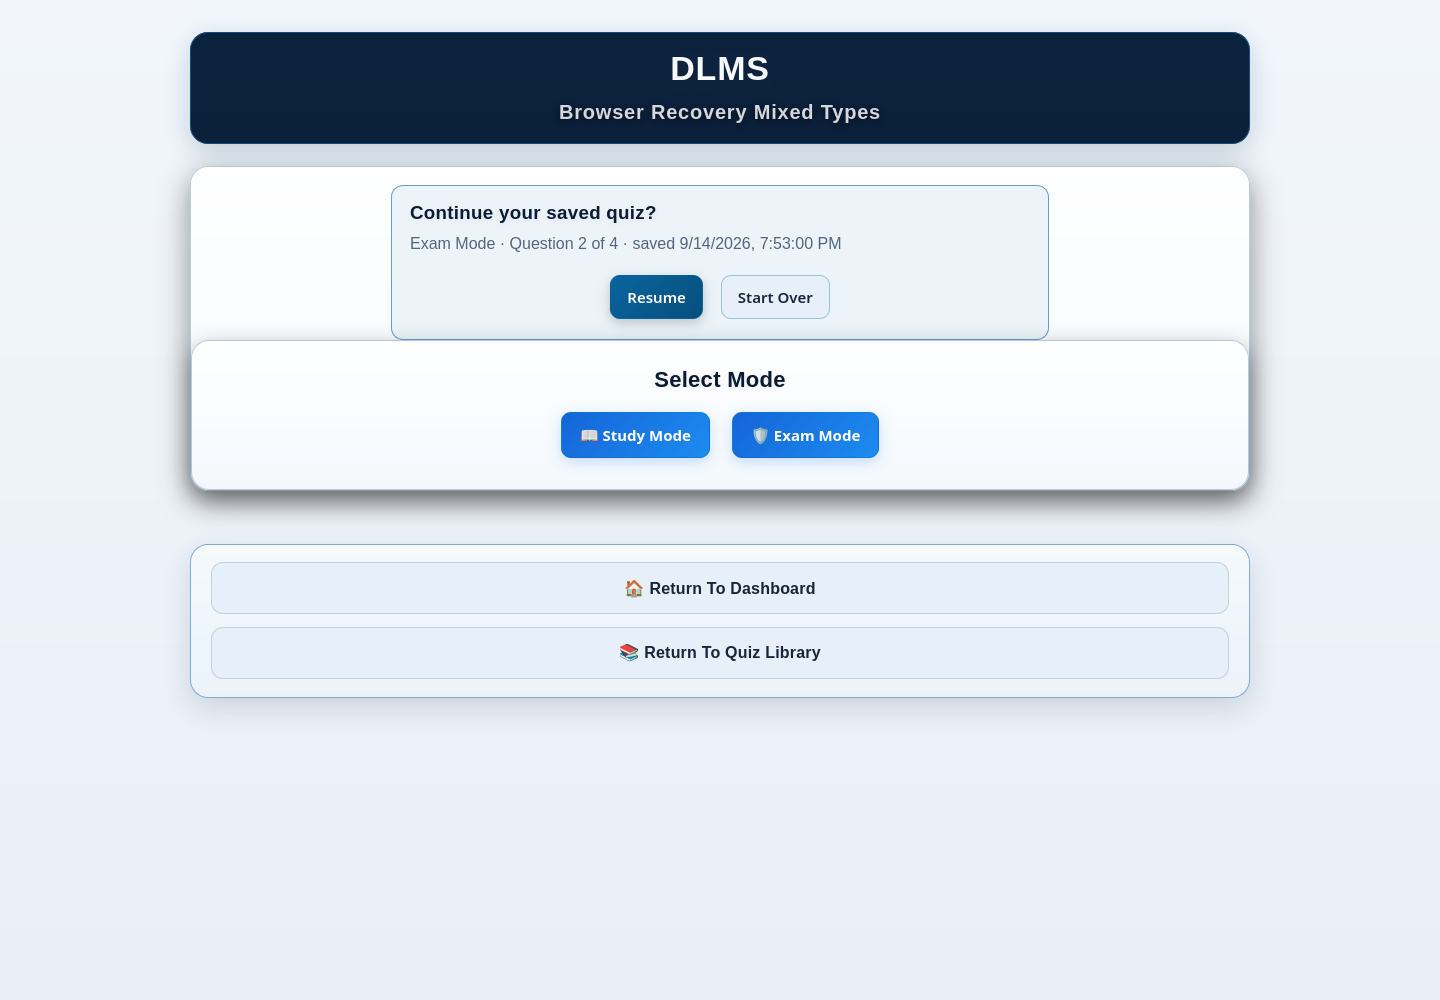
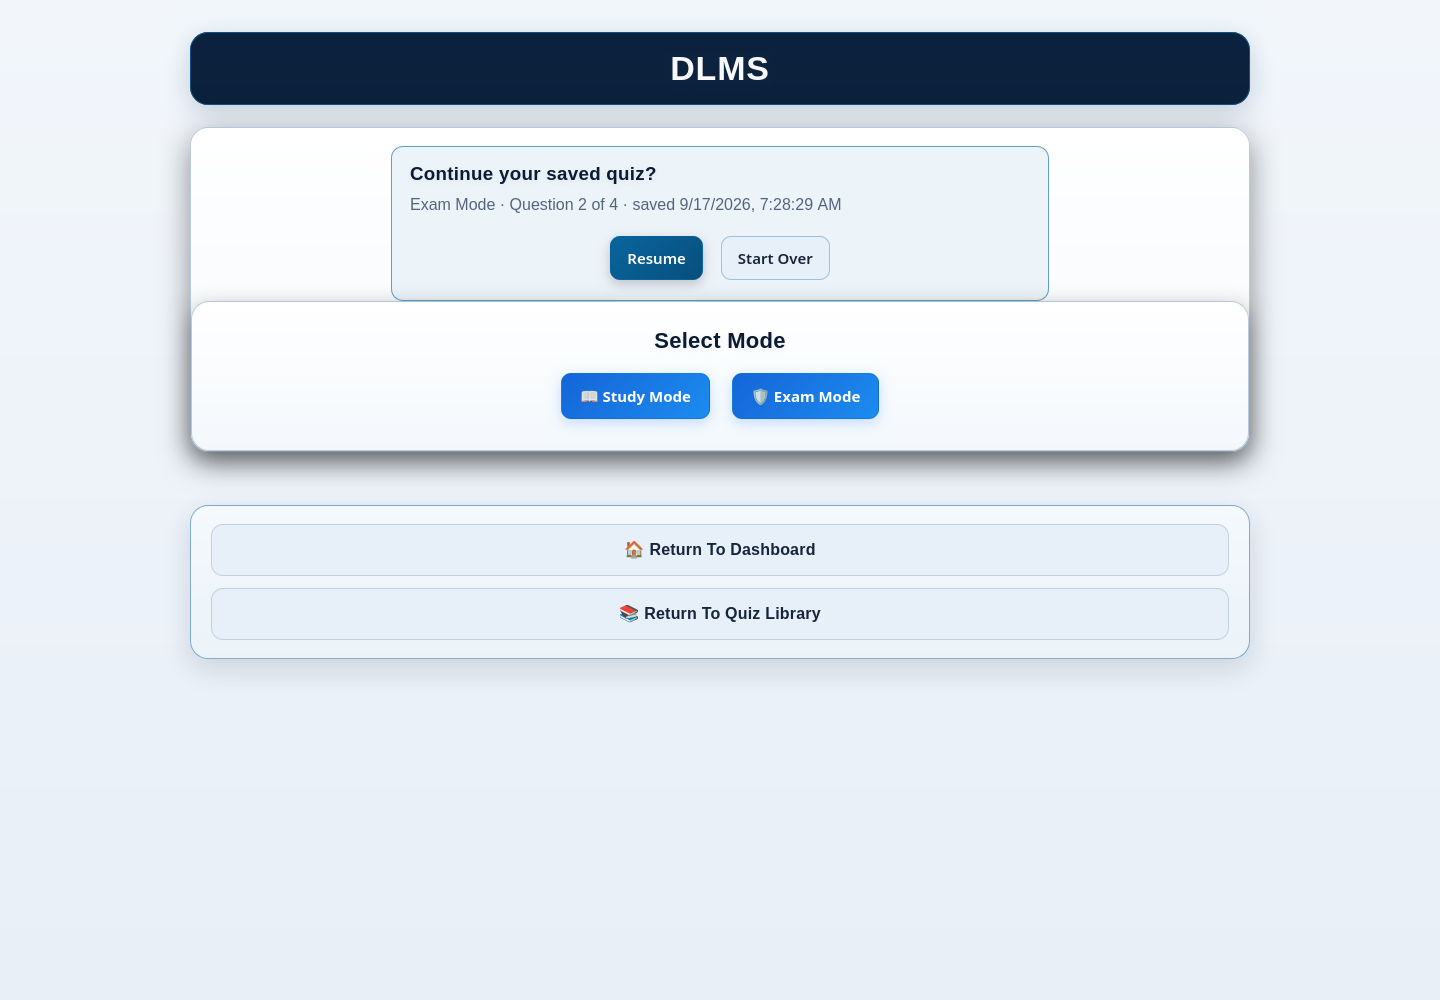
fix: remove duplicate quiz title from page header

Changed region(s): [[0.125, 0.093, 0.875, 0.682]]

diff --git a/static/script.js b/static/script.js
@@ -213,9 +213,18 @@ async function recordStudyLearningEvent(q, wasCorrect, selected) {
 
 
 /* =====================================================
-   SAFELY RELOCATE SUBMIT BUTTON (OLD QUIZZES → NEW UI)
+   LEGACY QUIZ HTML COMPATIBILITY
 ===================================================== */
 document.addEventListener("DOMContentLoaded", () => {
+    // Existing saved quiz pages may still contain the old generated subtitle.
+    // New pages omit it in build_quiz_html; remove only that known legacy markup.
+    const hero = document.querySelector("#quizWrapper > .container > .hero-title");
+    const subtitle = hero?.querySelector(":scope > span");
+    if (subtitle && subtitle.textContent.trim() === String(window.quiz_title || "").trim()) {
+        if (subtitle.previousElementSibling?.tagName === "BR") subtitle.previousElementSibling.remove();
+        subtitle.remove();
+    }
+
     // Find submit button
     const submitBtn = document.getElementById("submitBtn");
     if (!submitBtn) return;   // nothing to do

diff --git a/static/style.css b/static/style.css
@@ -808,10 +808,13 @@ body.home .quiz-card img {
 
 .active-quiz-title {
     flex: 1;
+    min-width: 0;
+    margin: 0;
     text-align: center;
     font-size: 20px;
     font-weight: 800;
     letter-spacing: 0.4px;
+    overflow-wrap: anywhere;
     color: light-dark(var(--theme-panel-1, #fff), var(--theme-heading, #fff));
     text-shadow: 0 0 8px rgba(0,0,0,0.75);
 }
@@ -831,7 +834,6 @@ body.home .quiz-card img {
         0 0 20px color-mix(in srgb, var(--theme-accent, #1b9ff2) 6%, transparent);
 }
 
-#quizWrapper > .container > .hero-title span,
 .active-quiz-title {
     color: light-dark(var(--theme-panel-1, #fff), var(--theme-heading, #fff)) !important;
     text-shadow: 0 2px 8px rgba(0,0,0,.72) !important;

diff --git a/tests/browser/test_critical_workflows.py b/tests/browser/test_critical_workflows.py
@@ -2562,6 +2562,122 @@ def test_study_and_exam_quiz_shell_follow_each_theme(browser_stack):
             assert shell["titleColor"] == shell["shellText"]
 
 
+def test_quiz_header_uses_site_heading_and_branded_title_across_modes_themes_and_widths(browser_stack):
+    browser = browser_stack.browser
+    quiz_folder = browser_stack.data_root / "quizzes"
+    logo_folder = browser_stack.data_root / "static" / "logos"
+    logo_folder.mkdir(parents=True, exist_ok=True)
+    (logo_folder / "header-test.png").write_bytes(base64.b64decode(
[1 lines of base64/hex data omitted]
+    ))
+    title = "Smart Review — " + "LongUnbrokenTopicName" * 6 + " practice"
+    html_name = "browser_header_branded.html"
+    build_quiz_html(
+        html_name, browser_stack.metadata["recovery_json"], str(quiz_folder / html_name),
+        "Mike's Training & Practice Center", title, "header-test.png",
+        browser_stack.metadata["critical_id"], 5,
+        normalize_exam_minutes=lambda value: int(value),
+    )
+    quiz_url = f"{browser_stack.base_url}/quizzes/{html_name}"
+
+    for theme in ("light", "dark", "purple-gold", "maroon-gold"):
+        browser.navigate(f"{browser_stack.base_url}/settings")
+        _set_theme(browser, theme)
+        for mode_selector in (".study-mode-btn", ".exam-mode-btn"):
+            browser.set_viewport(1440, 1000)
+            browser.navigate(quiz_url)
+            browser.wait_for("quizRecoveryReady === true && quiz.length === 4")
+            browser.click(mode_selector)
+            browser.wait_for("!document.getElementById('quiz').classList.contains('hidden')")
+            for width in (1440, 1024, 760, 420):
+                browser.set_viewport(width, 1000)
+                layout = browser.evaluate(
+                    "(() => {const hero=document.querySelector('.hero-title');"
+                    "const banner=document.querySelector('.active-quiz-logo-banner');"
+                    "const title=document.querySelector('.active-quiz-title');"
+                    "const logos=[...banner.querySelectorAll('.active-logo-slot img')];"
+                    "const bounds=node=>{const r=node.getBoundingClientRect();"
+                    "return {left:r.left,right:r.right,top:r.top,bottom:r.bottom};};"
+                    "return {hero:hero.textContent.trim(),heroChildren:hero.children.length,"
+                    "heroBounds:bounds(hero),bannerBounds:bounds(banner),"
+                    "title:title.textContent.trim(),titleTag:title.tagName,titleBounds:bounds(title),"
+                    "logos:logos.map(img=>({loaded:img.complete&&img.naturalWidth>0,bounds:bounds(img)})),"
+                    "progress:!!document.querySelector('.quiz-progress-card'),"
+                    "studyBadge:getComputedStyle(document.getElementById('studyModeBadge')||document.body).display,"
+                    "timer:getComputedStyle(document.getElementById('timer')).display,"
+                    "question:document.getElementById('qText').textContent.trim(),"
+                    "overflow:document.documentElement.scrollWidth>innerWidth};})()"
+                )
+                assert layout["hero"] == "Mike's Training & Practice Center"
+                assert layout["heroChildren"] == 0
+                if width == 1440:
+                    assert layout["heroBounds"]["bottom"] - layout["heroBounds"]["top"] < 100
+                assert layout["title"] == title
+                assert layout["titleTag"] == "H2"
+                assert len(layout["logos"]) == 2
+                assert all(logo["loaded"] for logo in layout["logos"])
+                assert layout["bannerBounds"]["top"] >= layout["heroBounds"]["bottom"]
+                assert layout["titleBounds"]["left"] >= layout["bannerBounds"]["left"]
+                assert layout["titleBounds"]["right"] <= layout["bannerBounds"]["right"]
+                assert layout["titleBounds"]["bottom"] <= layout["bannerBounds"]["bottom"]
+                if width > 600:
+                    assert layout["logos"][0]["bounds"]["right"] <= layout["titleBounds"]["left"]
+                    assert layout["titleBounds"]["right"] <= layout["logos"][1]["bounds"]["left"]
+                else:
+                    assert layout["logos"][0]["bounds"]["bottom"] <= layout["titleBounds"]["top"]
+                    assert layout["titleBounds"]["bottom"] <= layout["logos"][1]["bounds"]["top"]
+                assert all(logo["bounds"]["right"] <= layout["bannerBounds"]["right"]
+                           for logo in layout["logos"])
+                assert layout["progress"] and layout["question"]
+                assert not layout["overflow"]
+                if mode_selector == ".study-mode-btn":
+                    assert layout["studyBadge"] != "none"
+                    assert layout["timer"] == "none"
+                else:
+                    assert layout["timer"] != "none"
+
+    no_logo_name = "browser_header_generated_no_logo.html"
+    no_logo_title = "Spaced Review — Due Questions"
+    build_quiz_html(
+        no_logo_name, browser_stack.metadata["recovery_json"],
+        str(quiz_folder / no_logo_name), "DLMS", no_logo_title, None,
+        browser_stack.metadata["critical_id"], 5,
+        normalize_exam_minutes=lambda value: int(value),
+    )
+    for mode_selector in (".study-mode-btn", ".exam-mode-btn"):
+        browser.set_viewport(420, 1000)
+        browser.navigate(f"{browser_stack.base_url}/quizzes/{no_logo_name}")
+        browser.wait_for("quizRecoveryReady === true && quiz.length === 4")
+        browser.click(mode_selector)
+        browser.wait_for("!document.getElementById('quiz').classList.contains('hidden')")
+        assert browser.evaluate(
+            "(() => {const banner=document.querySelector('.active-quiz-logo-banner');"
+            "return document.querySelector('.hero-title').textContent.trim()==='DLMS'"
+            "&& banner.querySelector('.active-quiz-title').textContent.trim()==="
+            + json.dumps(no_logo_title) + ";})()"
+        )
+        assert browser.evaluate(
+            "document.querySelectorAll('.active-quiz-logo-banner img').length"
+        ) == 0
+        assert browser.evaluate("document.documentElement.scrollWidth <= innerWidth")
+
+    # Previously published HTML is served from disk; its old subtitle is removed on load.
+    legacy_name = "browser_header_legacy.html"
+    legacy = (quiz_folder / html_name).read_text(encoding="utf-8")
+    legacy = legacy.replace(
+        '<h1 class="hero-title">Mike\'s Training &amp; Practice Center</h1>',
+        '<h1 class="hero-title">Mike\'s Training &amp; Practice Center<br>'
+        f'<span style="font-size:20px;opacity:.85">{title}</span></h1>',
+    )
+    (quiz_folder / legacy_name).write_text(legacy, encoding="utf-8")
+    browser.navigate(f"{browser_stack.base_url}/quizzes/{legacy_name}")
+    browser.wait_for("quizRecoveryReady === true && quiz.length === 4")
+    assert browser.evaluate("document.querySelector('.hero-title').textContent.trim()") == (
+        "Mike's Training & Practice Center"
+    )
+    assert browser.evaluate("document.querySelector('.hero-title').children.length") == 0
+
+
 def test_quiz_question_tools_share_prompt_and_preserve_attempt_state(browser_stack):
     browser = browser_stack.browser
     browser.set_viewport(1440, 1000)
@@ -2625,7 +2741,7 @@ def test_quiz_question_tools_share_prompt_and_preserve_attempt_state(browser_sta
         "quiz[1].image_url='/static/favicon.ico';renderQuestion();"
         "navigator.clipboard.writeText=async text=>{window.__toolCalls.copies.push(text)};true"
     )
-    assert browser.evaluate("Boolean(document.querySelector('#choices .question-media-image'))") is True
+    browser.wait_for("document.querySelector('#choices .question-media-image')?.complete === true")
     browser.click("#choices .choice[data-index='0']")
     browser.click("#choices .choice[data-index='2']")
     browser.click("#studyAiBtn")

diff --git a/tests/test_generated_quiz_security.py b/tests/test_generated_quiz_security.py
@@ -26,15 +26,41 @@ class _GeneratedQuizTextParser(HTMLParser):
 
 
 class GeneratedQuizSecurityTests(unittest.TestCase):
-    def _build(self, portal_title, quiz_title, jsonfile="quiz.json"):
+    def _build(self, portal_title, quiz_title, jsonfile="quiz.json", logo_filename=None):
         temp_dir = tempfile.TemporaryDirectory(prefix="dlms-generated-xss-")
         self.addCleanup(temp_dir.cleanup)
         output = Path(temp_dir.name) / "quiz.html"
         dlms.build_quiz_html(
             "quiz.html", jsonfile, str(output), portal_title, quiz_title,
-            None, 17, 90,
+            logo_filename, 17, 90,
         )
         return output.read_text(encoding="utf-8")
+
+    def test_quiz_header_keeps_site_identity_separate_from_branded_quiz_title(self):
+        titles = (
+            "Ordinary Source Quiz",
+            "Spaced Review — Due Questions",
+            "Adaptive Study — What I Need Most",
+            "Smart Review — Sample Topic",
+            "Concept Review — Sample Topic",
+            "Spaced Review — Sample Topic",
+            "Mixed Quiz",
+        )
+        for title in titles:
+            for logo in (None, "quiz-logo.png"):
+                with self.subTest(title=title, logo=logo):
+                    generated = self._build("Mike's Training & Practice Center", title, logo_filename=logo)
+                    hero = re.search(r'<h1 class="hero-title">(.*?)</h1>', generated, re.S)
+                    banner = re.search(r'<div class="active-quiz-logo-banner">(.*?)</div>\s*</div>\s*<!-- TOP BAR -->', generated, re.S)
+                    self.assertIsNotNone(hero)
+                    self.assertIsNotNone(banner)
+                    self.assertEqual("Mike's Training &amp; Practice Center", hero.group(1))
+                    self.assertNotIn(title, hero.group(1))
+                    self.assertIn(f'<h2 class="active-quiz-title">\n                    {title}\n                </h2>', banner.group(1))
+                    self.assertEqual(2 if logo else 0, banner.group(1).count('class="mode-badge"'))
+                    self.assertIn('class="mode-btn study-mode-btn"', generated)
+                    self.assertIn('class="mode-btn exam-mode-btn"', generated)
+                    self.assertIn('class="quiz-progress-card"', generated)
 
     def test_titles_are_safe_in_html_and_inline_javascript(self):
         attack = '</script><script>alert(1)</script>'

diff --git a/dlms/rendering/quiz_artifacts.py b/dlms/rendering/quiz_artifacts.py
@@ -381,10 +381,7 @@ def build_quiz_html(
     <div class="container">
 
         <!-- Readable Centered Banner -->
-        <h1 class="hero-title">
-            {portal_title_html}<br>
-            <span style="font-size:20px;opacity:.85">{quiz_title_html}</span>
-        </h1>
+        <h1 class="hero-title">{portal_title_html}</h1>
 
                 <!-- Mode Select -->
         <div id="modeSelect" class="card quiz-mode-card">
@@ -421,9 +418,9 @@ def build_quiz_html(
                     {mode_logo}
                 </div>
 
-                <div class="active-quiz-title">
+                <h2 class="active-quiz-title">
                     {quiz_title_html}
-                </div>
+                </h2>
 
                 <div class="active-logo-slot">
                     {mode_logo}
